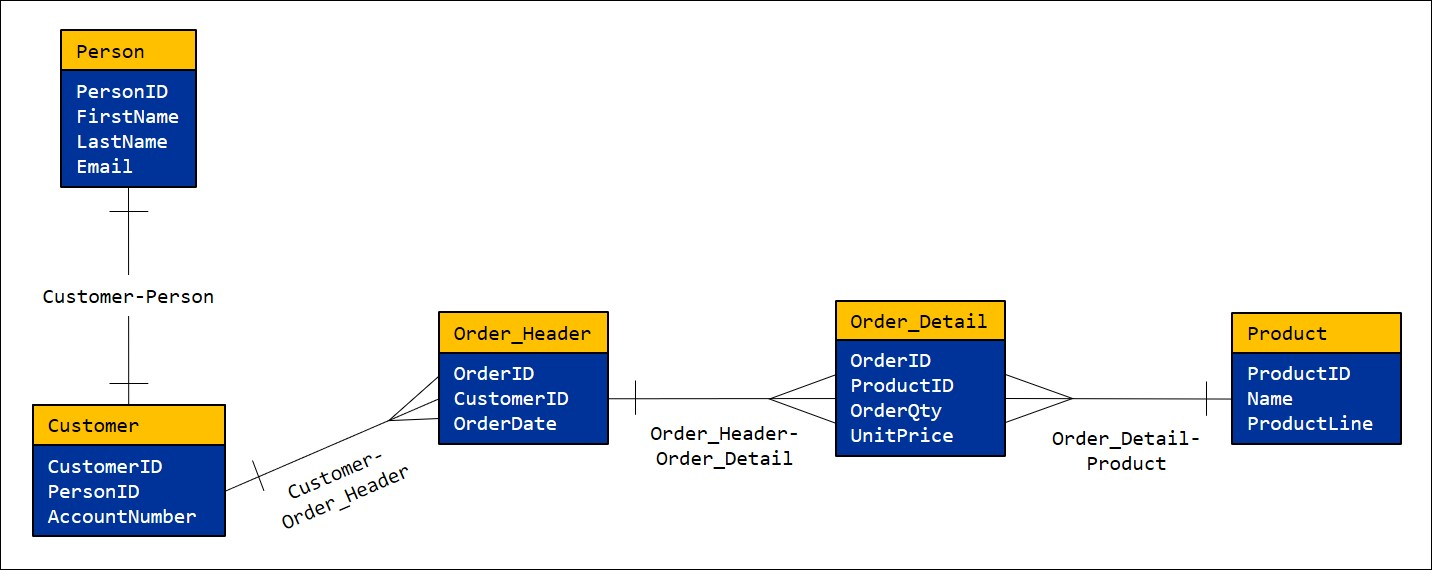
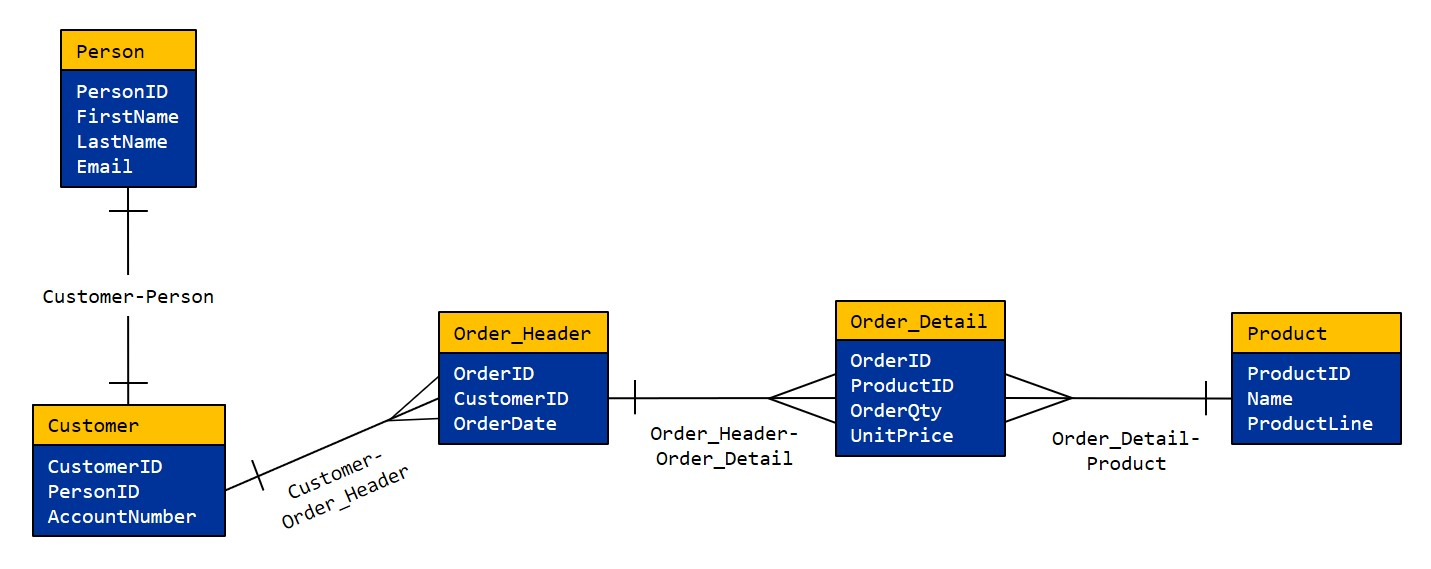
GitBook: [master] one page and 2 assets modified

diff --git a/configuring-the-data-integration-process/source-configuration/enrichment-rule-configuration.md b/configuring-the-data-integration-process/source-configuration/enrichment-rule-configuration.md
@@ -108,7 +108,7 @@ When configuring the Expression property on the Enrichment configuration screen,
 
 To illustrate the proper use of Relations and Enrichments, let's examine the example Entity-Relationship Diagram of an arrangement of Sources in RAP below. The labels near the relationship lines are the names of the Relations that the user would have configured prior to creating any Enrichments. 
 
-![Example ERD](../../.gitbook/assets/relations-erd%20%283%29.jpg)
+![Example ERD](../../.gitbook/assets/relations-erd%20%284%29.jpg)
 
 One useful metric to track in these kinds of data models is _revenue by customer._ To do this, let's first create an enriched column _Revenue_ on the Order\_Detail Source_._ The Enrichment expression for this would be `[This].OrderQty * [This].UnitPrice`. All of the attributes needed for this enriched column already exist on the Order\_Detail Source, so we don't need any Relations for this metric.
 
